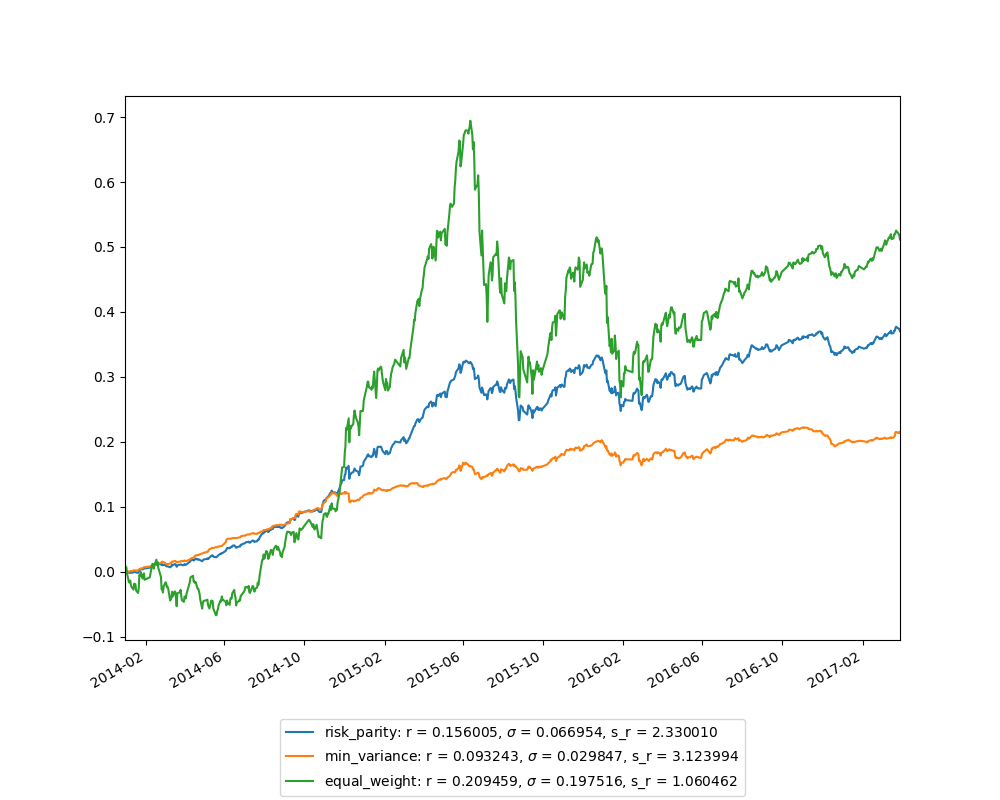
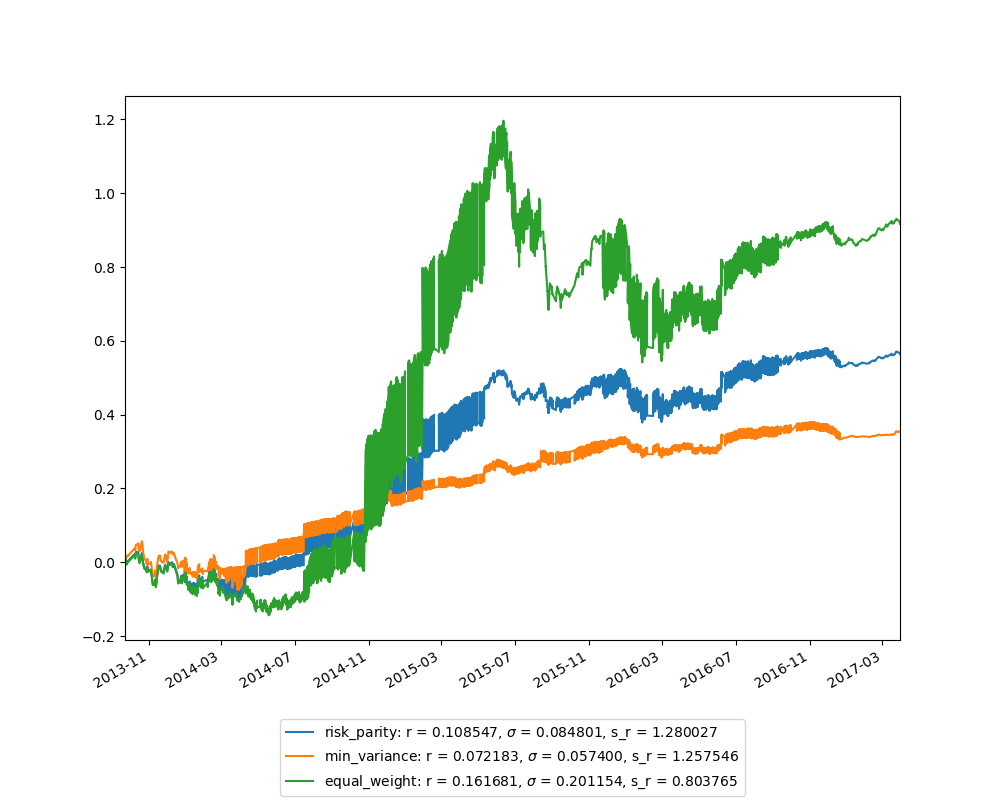
pls work

diff --git a/xuchuan/ptfopt.py b/xuchuan/ptfopt.py
@@ -34,7 +34,7 @@ def data_process(order_book_ids, asset_type, start_date, windows):
     reset_start_date = pd.to_datetime(start_date)
 
     if asset_type is 'fund':
-        period_prices = rqdatac.fund.get_nav(order_book_ids, reset_start_date, end_date, fields='acc_net_value')
+        period_prices = rqdatac.fund.get_nav(order_book_ids, reset_start_date, end_date, fields='adjusted_net_value')
     elif asset_type is 'stock':
         period_data = rqdatac.get_price(order_book_ids, reset_start_date, end_date, frequency='1d',
                                         fields=['close', 'volume'])
@@ -448,5 +448,5 @@ def optimizer(order_book_ids, start_date, asset_type, method, current_weight=Non
             for f in opt_dict[method]:
                 temp1.iloc[:, n] = f()
                 n = n + 1
-            return temp1, period_daily_return_pct_change, c_m, data_after_processing[1]
+            return temp1, c_m, data_after_processing[1]
 
